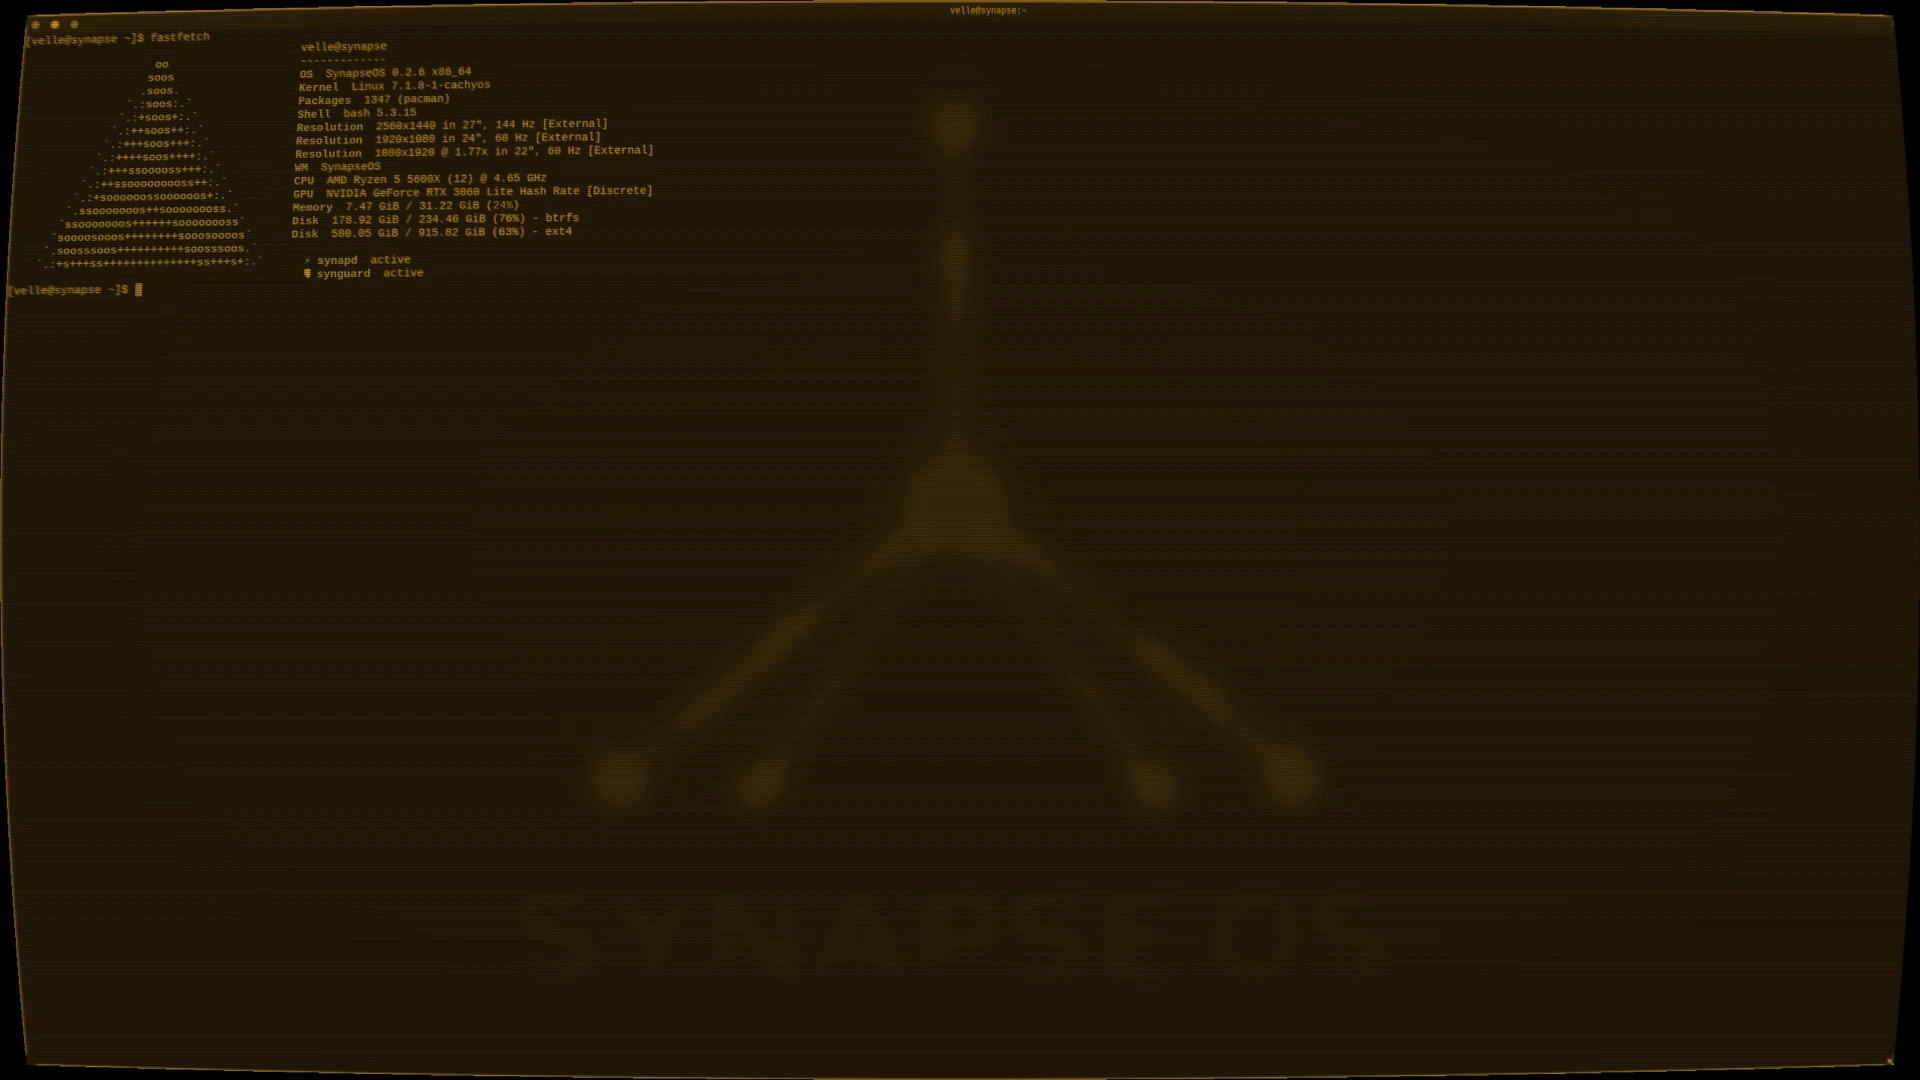
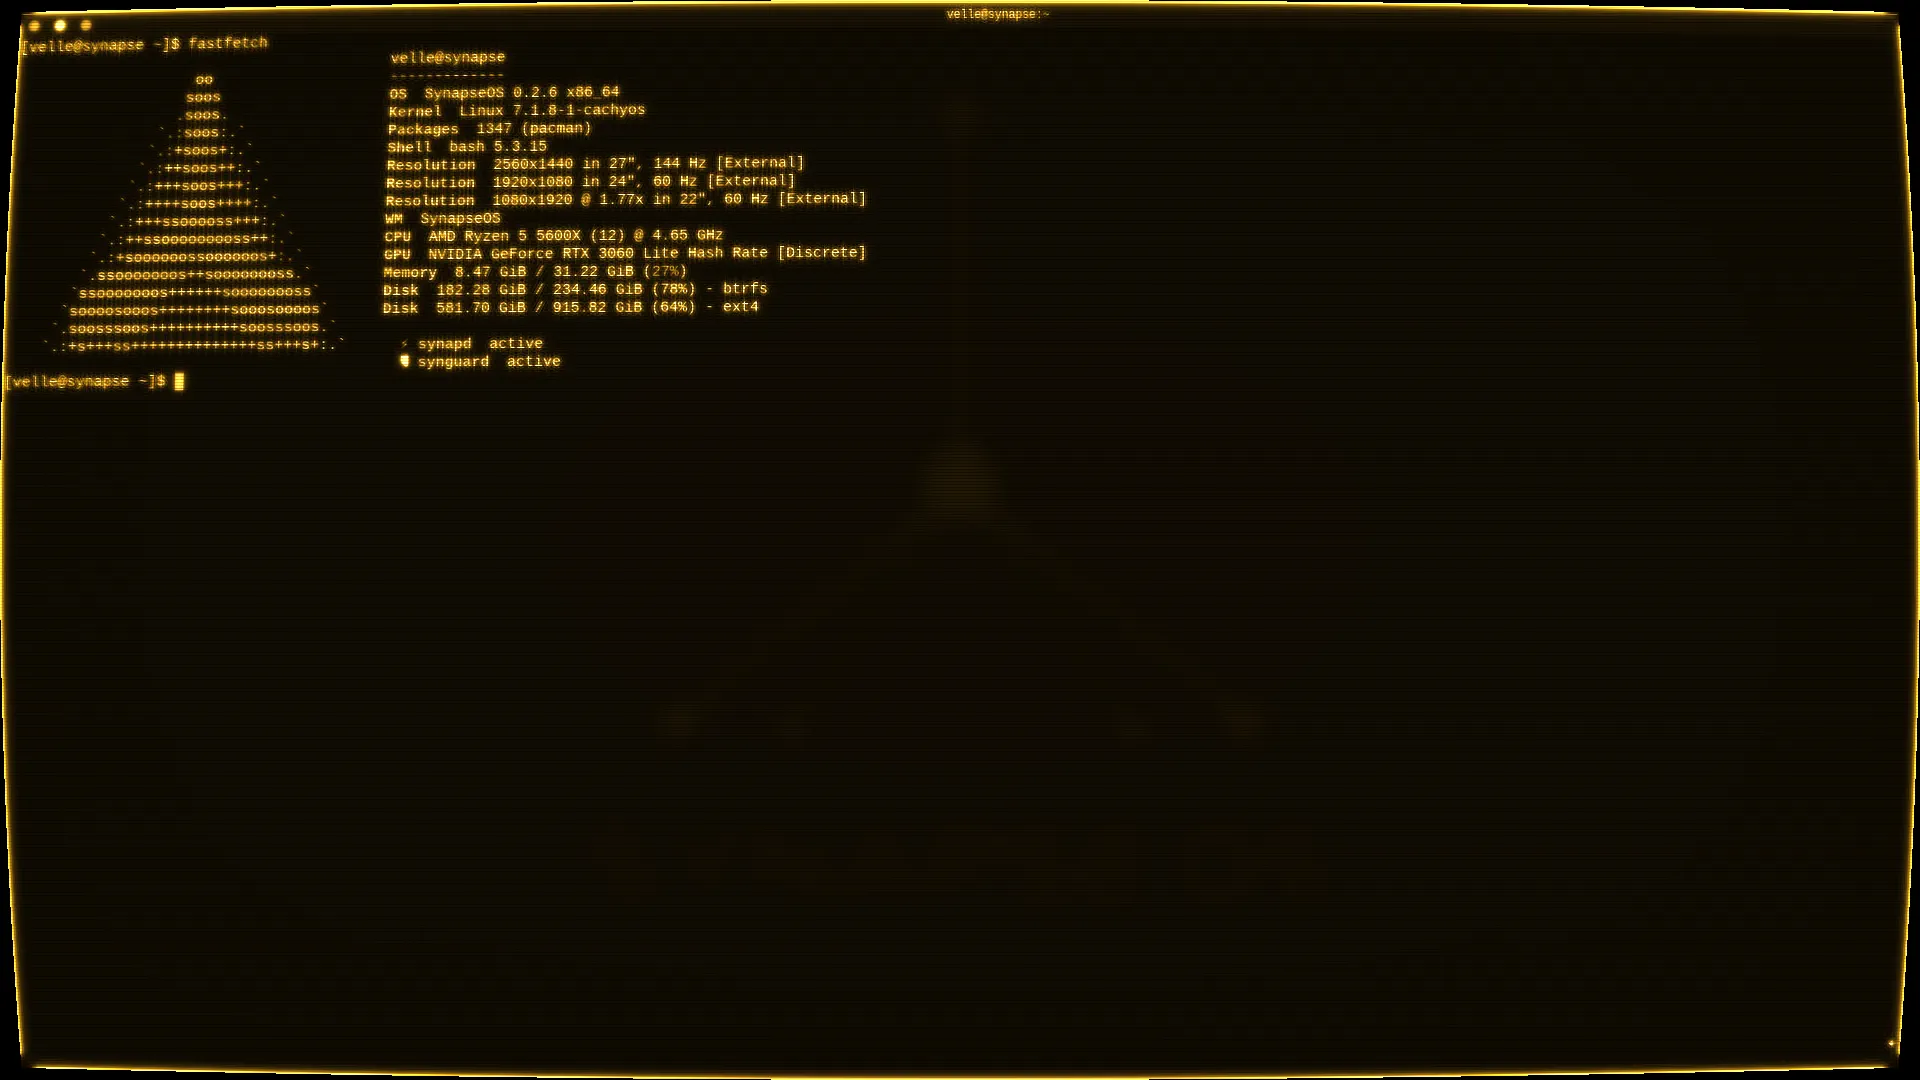
Refresh the amber phosphor shot on the front page
Reshot the CRT post-process pass with the current phosphor curve and
lift. /assets/* is immutable for a year, so the img src carries a ?v=
stamp — without it returning visitors keep the old picture.

diff --git a/public/index.html b/public/index.html
@@ -335,7 +335,7 @@
     </figure>
 
     <figure>
-      <img src="/assets/synui-crt.webp" width="1920" height="1080" loading="lazy" decoding="async"
+      <img src="/assets/synui-crt.webp?v=2026-08-18" width="1920" height="1080" loading="lazy" decoding="async"
            alt="SynapseOS with the CRT post-process filter enabled in amber phosphor: scanlines and a curved screen over a fastfetch readout.">
       <figcaption>The optional CRT post-process pass, in amber phosphor.</figcaption>
     </figure>
